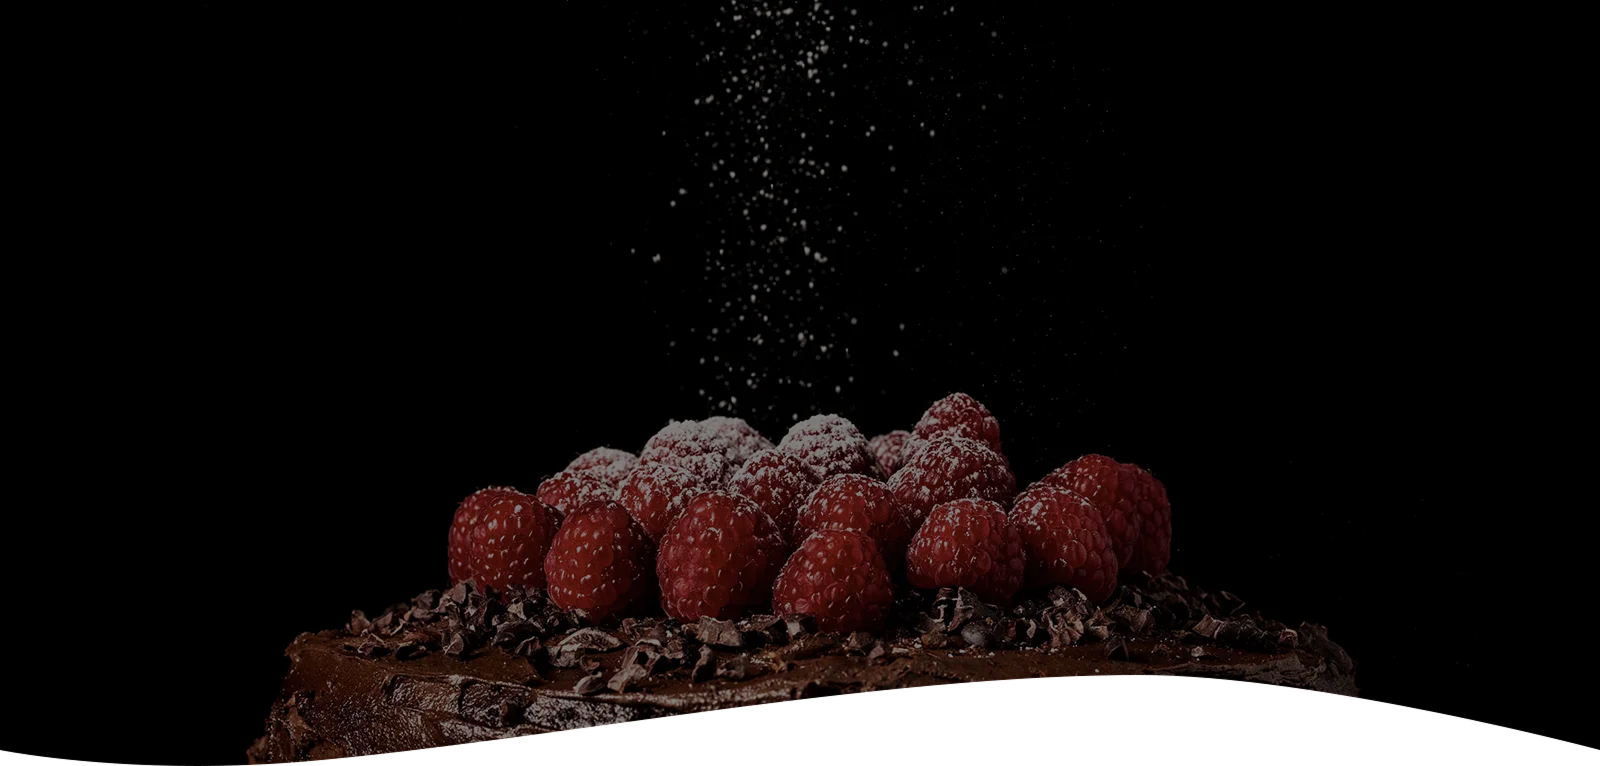
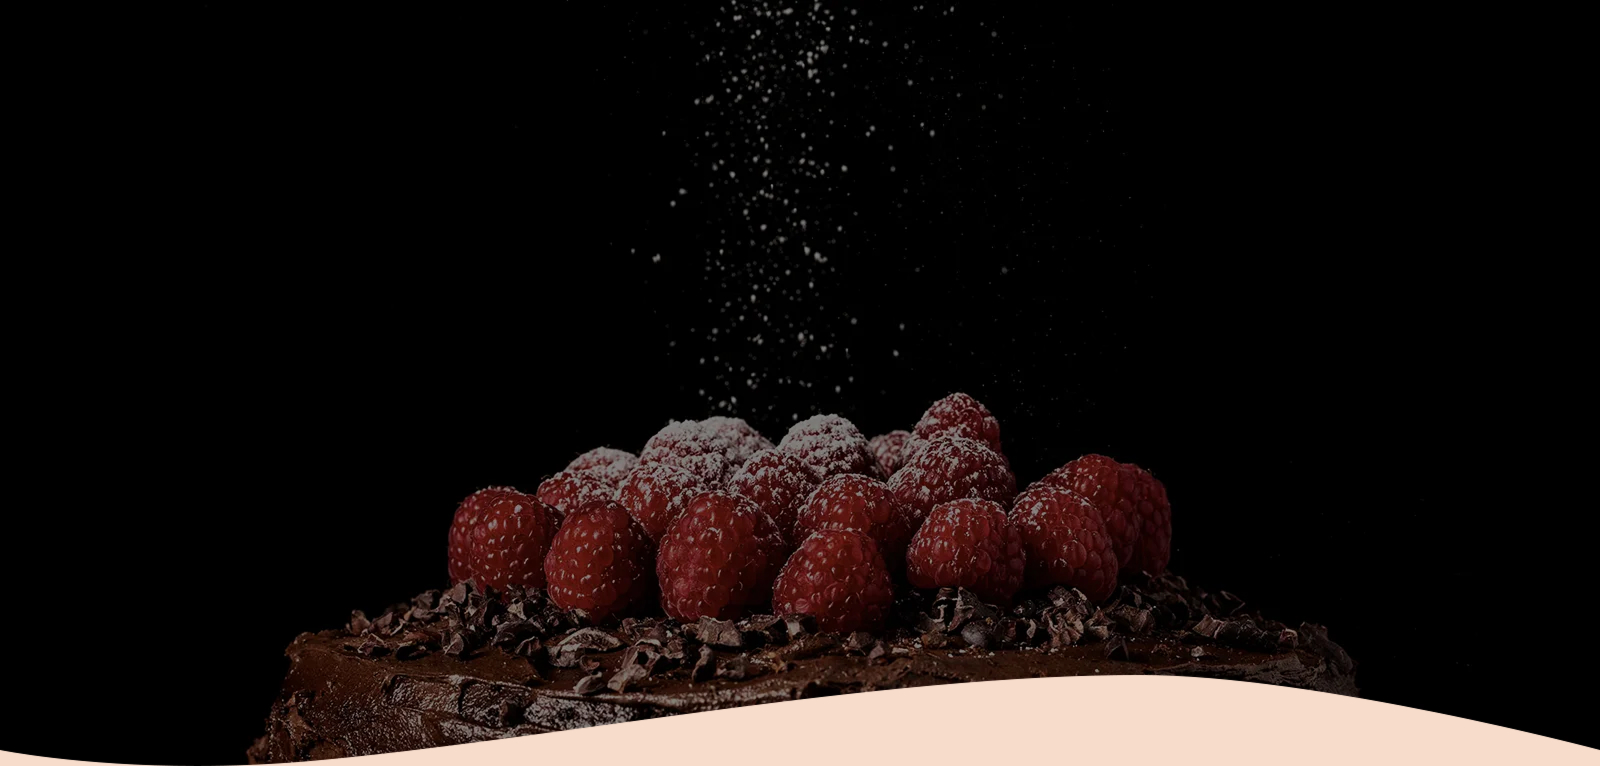
исправление фото в адаптивности и фото фона

Changed region(s): [[0.1562, 0.8708, 1.0, 1.0], [0.0, 0.9608, 0.0938, 1.0]]

diff --git a/anich_cakes/css/style.css b/anich_cakes/css/style.css
@@ -44,13 +44,15 @@ button {
   font-family: inherit;
 }
 
-.hero-banner {
+/* ===== Banner ===== */
+
+.banner {
   position: relative;
   width: 100%;
   overflow: hidden;
 }
 
-.hero-banner__header {
+.banner__header {
   position: absolute;
   top: 0;
   left: 0;
@@ -62,28 +64,38 @@ button {
   z-index: 1;
 }
 
-.hero-banner__logo {
+.banner__logo {
   width: 24px;
   height: auto;
 }
 
-.hero-banner__title {
+.banner__title {
   font-size: 30px;
   color: var(--color-bg-primary);
 }
 
-.hero-banner__image {
+.banner__image {
   width: 100%;
   line-height: 0;
 }
 
-.hero-banner__image img {
+.banner__img {
   width: 100%;
   height: auto;
   display: block;
   object-fit: cover;
-  max-height: 1500px;
+  max-width: 1600px;
+  margin: 0 auto;
 }
+
+/* Широкий баннер для экранов больше 600px */
+@media (min-width: 601px) {
+  .banner__img {
+    content: url('../img/berry_header_wide.jpg');
+  }
+}
+
+/* ===== Intro ===== */
 
 .intro {
   margin-top: 100px;
@@ -101,6 +113,8 @@ button {
   margin-bottom: 16px;
 }
 
+/* ===== Products ===== */
+
 .products {
   margin-top: 100px;
   padding: 32px 24px 40px;
@@ -108,14 +122,14 @@ button {
   background-image: url('../img/choco-back.jpg');
   background-position: center top;
   background-repeat: no-repeat;
-  background-size: 100% auto;
+  background-size: cover;
 }
 
 .products__grid {
   display: grid;
   grid-template-columns: repeat(2, 1fr);
-  gap: 16px;
-  max-width: 480px;
+  gap: var(--gap-card);
+  max-width: clamp(228px, 100vw - 165px, 1008px);
   margin: 0 auto;
 }
 
@@ -128,6 +142,7 @@ button {
   overflow: hidden;
   border-radius: var(--radius-card);
   aspect-ratio: 106 / 99;
+  width: 100%;
 }
 
 .product-card__img {
@@ -148,6 +163,8 @@ button {
   align-items: center;
   justify-content: center;
   width: 85%;
+  height: 100%;
+  padding-top: 0;
 }
 
 .product-card__title,
@@ -158,13 +175,13 @@ button {
 .product-card__title {
   width: 100%;
   font-weight: var(--font-weight-semibold);
-  margin-bottom: 0.3em;
+  margin-bottom: 8px;
   font-size: var(--font-size-card-title);
 }
 
 .product-card__description {
   width: 100%;
-  margin-bottom: 0.6em;
+  margin-bottom: 8px;
   line-height: 1.3;
   font-size: var(--font-size-card-desc);
 }
@@ -179,6 +196,8 @@ button {
   font-size: var(--font-size-card-btn);
 }
 
+/* ===== Footer ===== */
+
 .footer__inner {
   display: flex;
   flex-direction: column;
@@ -186,27 +205,12 @@ button {
   justify-content: center;
 }
 
+/* ===== Media Queries ===== */
+
 /* 3 колонки — от 720px */
 @media (min-width: 720px) {
-  :root {
-    --font-size-card-title: clamp(10px, (100vw - 80px) / 3 * 0.0486, 16px);
-    --font-size-card-desc: clamp(9px, (100vw - 80px) / 3 * 0.0425, 14px);
-    --font-size-card-btn: clamp(9px, (100vw - 80px) / 3 * 0.0425, 14px);
-    --width-card-btn: clamp(65px, (100vw - 80px) / 3 * 0.346, 110px);
-    --radius-card: clamp(19px, (100vw - 80px) / 3 * 0.091, 40px);
-  }
-
   .products__grid {
     grid-template-columns: repeat(3, 1fr);
-    max-width: 1008px;
-  }
-}
-
-/* 2 колонки — от 393px до 719px */
-@media (min-width: 393px) and (max-width: 719px) {
-  .products__grid {
-    grid-template-columns: repeat(2, 1fr);
-    max-width: 480px;
   }
 }
 
@@ -214,6 +218,5 @@ button {
 @media (max-width: 392px) {
   .products__grid {
     grid-template-columns: 1fr;
-    max-width: 280px;
   }
 }

diff --git a/anich_cakes/css/variables.css b/anich_cakes/css/variables.css
@@ -11,15 +11,57 @@
   --font-weight-semibold: 600;
   --font-weight-bold: 700;
 
+  /*
+   * Пропорция карточки: ширина/высота = 106/99 = 1.0707070707
+   * При 393px: ширина карточки = 106px, высота = 99px
+   *
+   * Базовый расчёт (2 колонки, < 720px):
+   *   card-width ≈ (100vw - 64px) / 2
+   *   При 393px: (393 - 64) / 2 = 164.5px
+   *   Но нужно 106px, поэтому коэффициент = 106 / 164.5 = 0.6444
+   *
+   *   Минимальный шрифт 8px при card-width 106px: 8 / 106 = 0.07547
+   *   Фактический коэффициент в формуле: 0.07547 * 0.6444 = 0.04864
+   *
+   *   Проверка при 393px: (393 - 64) / 2 * 0.04864 = 164.5 * 0.04864 = 8px ✓
+   *
+   * 3 колонки (>= 720px):
+   *   card-width ≈ (min(100vw, 1008px) - 72px) / 3
+   *   При 1008px: (1008 - 72) / 3 = 312px
+   *   max font-size title: 312 * 0.07547 = 23.5px ≈ 24px
+   */
+
+  /* Gap между карточками */
+  --gap-card: clamp(16px, (100vw - 64px) * 0.0486, 32px);
+
   /* Размеры шрифтов карточек */
-  /* Базовый расчёт: при 393px ширина карточки 164.5px, шрифт 8px (4.86% от ширины карточки) */
-  --font-size-card-title: clamp(8px, (100vw - 64px) / 2 * 0.0486, 16px);
-  --font-size-card-desc: clamp(7px, (100vw - 64px) / 2 * 0.0425, 14px);
-  --font-size-card-btn: clamp(7px, (100vw - 64px) / 2 * 0.0425, 14px);
+  --font-size-card-title: clamp(8px, (100vw - 64px) / 2 * 0.04864, 24px);
+  --font-size-card-desc: clamp(8px, (100vw - 64px) / 2 * 0.04864, 14px);
+  --font-size-card-btn: clamp(8px, (100vw - 64px) / 2 * 0.04864, 14px);
 
-  /* Размеры кнопки карточки */
-  --width-card-btn: clamp(50px, (100vw - 64px) / 2 * 0.346, 110px);
+  /* Размеры кнопки карточки — 57px при 106px = 53.77% */
+  --width-card-btn: clamp(57px, (100vw - 64px) / 2 * 0.3465, 168px);
 
-  /* Скругление карточек */
-  --radius-card: clamp(15px, (100vw - 64px) / 2 * 0.091, 40px);
+  /* Скругление карточек — 15px при 106px = 14.15% */
+  --radius-card: clamp(15px, (100vw - 64px) / 2 * 0.0912, 44px);
+
+  /* Отступ body от верха карточки — 35px при 106px = 33.02% */
+  --padding-card-body-top: clamp(35px, (100vw - 64px) / 2 * 0.2128, 103px);
+}
+
+/* 3 колонки — от 720px */
+@media (min-width: 720px) {
+  :root {
+    --gap-card: clamp(24px, (min(100vw, 1008px) - 72px) * 0.0256, 32px);
+
+    --font-size-card-title: clamp(16px, (min(100vw, 1008px) - 72px) / 3 * 0.07547, 24px);
+    --font-size-card-desc: clamp(10px, (min(100vw, 1008px) - 72px) / 3 * 0.07547, 14px);
+    --font-size-card-btn: clamp(10px, (min(100vw, 1008px) - 72px) / 3 * 0.07547, 14px);
+
+    --width-card-btn: clamp(86px, (min(100vw, 1008px) - 72px) / 3 * 0.5377, 168px);
+
+    --radius-card: clamp(23px, (min(100vw, 1008px) - 72px) / 3 * 0.1415, 44px);
+
+    --padding-card-body-top: clamp(53px, (min(100vw, 1008px) - 72px) / 3 * 0.3302, 103px);
+  }
 }

diff --git a/anich_cakes/index.html b/anich_cakes/index.html
@@ -11,13 +11,13 @@
 <body>
   <main class="page">
 
-    <section class="hero-banner" aria-label="Hero image">
-      <div class="hero-banner__image">
-        <img src="img/berry_header.jpg" alt="Berry dessert background">
+    <section class="banner" aria-label="Hero image">
+      <div class="banner__image">
+        <img class="banner__img" src="img/berry_header.jpg" alt="Berry dessert background">
       </div>
-      <header class="hero-banner__header">
-        <img class="hero-banner__logo" src="img/burger.svg" alt="menu">
-        <h1 class="hero-banner__title">Anich Cakes</h1>
+      <header class="banner__header">
+        <img class="banner__logo" src="img/burger.svg" alt="menu">
+        <h1 class="banner__title">Anich Cakes</h1>
       </header>
     </section>
 